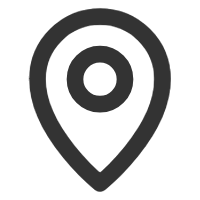
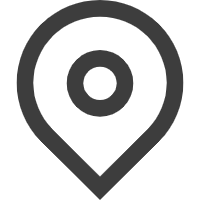
20231218

diff --git a/miniprogram/pages/index/index.js b/miniprogram/pages/index/index.js
@@ -46,7 +46,7 @@ Page({
                         latitude,
                         longitude,
                         title: '我的位置',
-                        iconPath: '/images/local.png',  // 自定义标记图标路径
+                        iconPath: '/images/position.png',  // 自定义标记图标路径
                         width: 40,
                         height: 40,
                     }],
@@ -65,12 +65,4 @@ Page({
         searchKeyword: '',  // 用户输入的地名
     },
 
-    // 处理地图拖动事件
-    regionchange: function (e) {
-        if (e.type === 'end') {
-            // 在地图拖动结束后，可以执行一些操作
-            console.log('地图拖动结束');
-        }
-    }
 });
-
